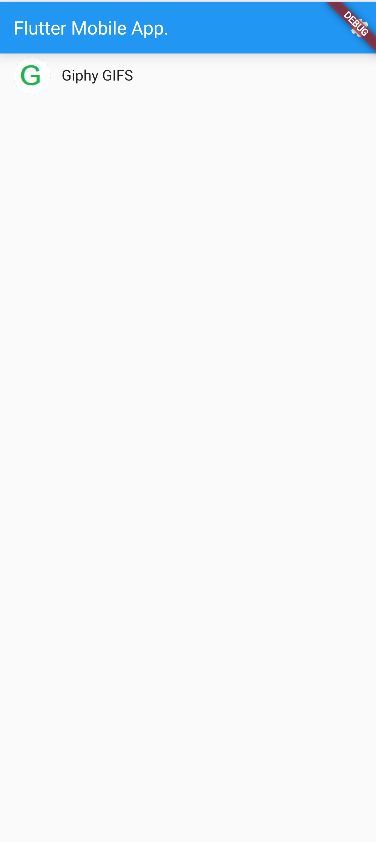
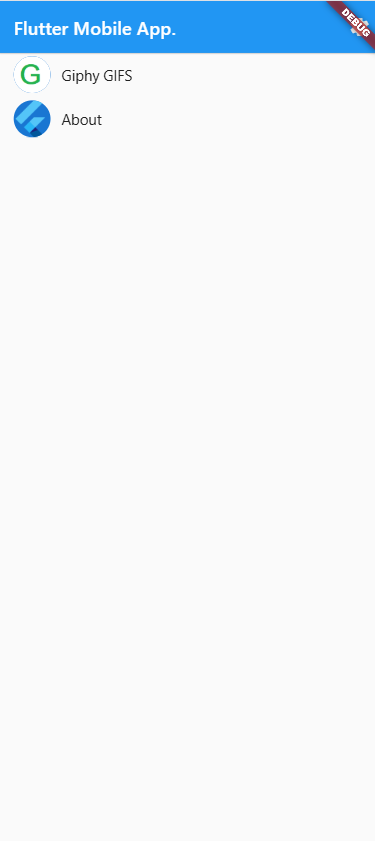
move classes to classes folder. add and display about page. Add simple text to about page. update readme picture.

Changed region(s): [[0.0293, 0.0, 0.4693, 0.1855], [0.88, 0.0, 1.0, 0.0618], [0.0293, 0.0, 0.0587, 0.0309]]

diff --git a/flutter_giphy/lib/src/giphy_feature/mobile_app_list_view.dart b/flutter_giphy/lib/src/giphy_feature/mobile_app_list_view.dart
@@ -1,19 +1,20 @@
 import 'package:flutter/material.dart';
 
 import '../settings/settings_view.dart';
-import 'giphy_item.dart';
-import 'giphy_item_details_view.dart';
+import '../classes/about_item.dart';
+import '../classes/generic_item.dart';
+import '../classes/giphy_item.dart';
 
 /// Displays a list of GiphyItems.
 class MobileAppListView extends StatelessWidget {
   const MobileAppListView({
     super.key,
-    this.items = const [GiphyItem(1)],
+    this.items = const [GiphyItem(1), AboutItem(2)],
   });
 
   static const routeName = '/';
 
-  final List<GiphyItem> items;
+  final List<GenericItem> items;
 
   @override
   Widget build(BuildContext context) {
@@ -47,19 +48,20 @@ class MobileAppListView extends StatelessWidget {
         itemCount: items.length,
         itemBuilder: (BuildContext context, int index) {
           return ListTile(
-              title: const Text('Giphy GIFS'),
-              leading: const CircleAvatar(
+              title: Text(items[index].theTitle),
+              leading: CircleAvatar(
                 // Display the Flutter Logo image asset.
-                foregroundImage: AssetImage('assets/images/gif.png'),
+                foregroundImage: AssetImage(items[index].imageLink),
               ),
               onTap: () {
                 // Navigate to the details page. If the user leaves and returns to
                 // the app after it has been killed while running in the
                 // background, the navigation stack is restored.
                 Navigator.restorablePushNamed(
-                  context,
-                  GiphyItemDetailsView.routeName,
-                );
+                    context,
+                    // GiphyItemView.routeName,
+                    // '/sample_item',
+                    items[index].routeName);
               });
         },
       ),

diff --git a/flutter_giphy/lib/src/giphy_feature/giphy_item_view.dart b/flutter_giphy/lib/src/giphy_feature/giphy_item_view.dart
@@ -2,22 +2,21 @@ import 'package:flutter/material.dart';
 import 'package:http/http.dart' as http;
 import '../../api_key.dart';
 import 'dart:convert';
-import 'gif_detail_view.dart';
 import '../classes/giphy.dart';
 import 'methods/giphy_search_row.dart';
 import 'methods/grid_view_to_display_GIFs.dart';
 
 /// Displays detailed information about a GiphyItem.
-class GiphyItemDetailsView extends StatefulWidget {
-  const GiphyItemDetailsView({super.key});
+class GiphyItemView extends StatefulWidget {
+  const GiphyItemView({super.key});
 
-  static const routeName = '/sample_item';
+  static const routeName = '/giphy_item';
 
   @override
-  State<GiphyItemDetailsView> createState() => _GiphyItemDetailsViewState();
+  State<GiphyItemView> createState() => _GiphyItemViewState();
 }
 
-class _GiphyItemDetailsViewState extends State<GiphyItemDetailsView> {
+class _GiphyItemViewState extends State<GiphyItemView> {
   final ScrollController _scrollController = ScrollController();
   final List<Data> _items = [];
   bool _isLoading = false;
@@ -26,7 +25,6 @@ class _GiphyItemDetailsViewState extends State<GiphyItemDetailsView> {
   int myOffSet = 0;
   String searchTerm = 'cat';
   final TextEditingController _searchController = TextEditingController();
-  // final _debouncer = Debouncer(milliseconds: 1500);
 
   @override
   void initState() {

diff --git a/flutter_giphy/lib/src/app.dart b/flutter_giphy/lib/src/app.dart
@@ -2,7 +2,8 @@ import 'package:flutter/material.dart';
 import 'package:flutter_gen/gen_l10n/app_localizations.dart';
 import 'package:flutter_localizations/flutter_localizations.dart';
 
-import 'giphy_feature/giphy_item_details_view.dart';
+import 'giphy_feature/about_page_view.dart';
+import 'giphy_feature/giphy_item_view.dart';
 import 'giphy_feature/mobile_app_list_view.dart';
 import 'settings/settings_controller.dart';
 import 'settings/settings_view.dart';
@@ -69,8 +70,10 @@ class MyApp extends StatelessWidget {
                 switch (routeSettings.name) {
                   case SettingsView.routeName:
                     return SettingsView(controller: settingsController);
-                  case GiphyItemDetailsView.routeName:
-                    return const GiphyItemDetailsView();
+                  case GiphyItemView.routeName:
+                    return const GiphyItemView();
+                  case AboutPageView.routeName:
+                    return const AboutPageView();
                   case MobileAppListView.routeName:
                   default:
                     return const MobileAppListView();

diff --git a/flutter_giphy/lib/src/giphy_feature/about_page_view.dart b/flutter_giphy/lib/src/giphy_feature/about_page_view.dart
@@ -1,0 +1,30 @@
+import 'package:flutter/material.dart';
+
+/// Displays detailed information about a GiphyItem.
+class AboutPageView extends StatefulWidget {
+  const AboutPageView({super.key});
+
+  static const routeName = '/about_item';
+
+  @override
+  State<AboutPageView> createState() => _AboutPageViewState();
+}
+
+class _AboutPageViewState extends State<AboutPageView> {
+  @override
+  Widget build(BuildContext context) {
+    return Scaffold(
+      appBar: AppBar(
+        title: const Text('About page'),
+      ),
+      body: Container(
+        margin: const EdgeInsets.all(16.0),
+        child: Column(
+          children: const [
+            Text('Hi this is a about page more info will follow')
+          ],
+        ),
+      ),
+    );
+  }
+}

diff --git a/flutter_giphy/test/widget_test.dart b/flutter_giphy/test/widget_test.dart
@@ -12,7 +12,7 @@ import 'dart:io';
 
 import 'package:flutter/material.dart';
 import 'package:flutter_giphy/src/giphy_feature/gif_detail_view.dart';
-import 'package:flutter_giphy/src/giphy_feature/giphy_item_details_view.dart';
+import 'package:flutter_giphy/src/giphy_feature/giphy_item_view.dart';
 import 'package:flutter_giphy/src/giphy_feature/mobile_app_list_view.dart';
 import 'package:flutter_test/flutter_test.dart';
 
@@ -36,7 +36,7 @@ void main() {
     testWidgets('Giphy App title is visible', (tester) async {
       await tester.pumpWidget(
         const MaterialApp(
-          home: GiphyItemDetailsView(),
+          home: GiphyItemView(),
         ),
       );
 

diff --git a/flutter_giphy/lib/src/classes/about_item.dart b/flutter_giphy/lib/src/classes/about_item.dart
@@ -1,0 +1,14 @@
+import 'package:flutter_giphy/src/classes/generic_item.dart';
+
+/// A placeholder class that represents an entity or model.
+class AboutItem extends GenericItem {
+  const AboutItem(this.id) : super(0);
+
+  final int id;
+  @override
+  final String routeName = '/about_item';
+  @override
+  final String theTitle = 'About';
+  @override
+  final String imageLink = 'assets/images/flutter_logo.png';
+}

diff --git a/flutter_giphy/lib/src/classes/giphy_item.dart b/flutter_giphy/lib/src/classes/giphy_item.dart
@@ -1,0 +1,14 @@
+import 'generic_item.dart';
+
+/// A placeholder class that represents an entity or model.
+class GiphyItem extends GenericItem {
+  const GiphyItem(this.id) : super(0);
+
+  final int id;
+  @override
+  final String routeName = '/giphy_item';
+  @override
+  final String theTitle = 'Giphy GIFS';
+  @override
+  final String imageLink = 'assets/images/gif.png';
+}

diff --git a/flutter_giphy/lib/src/classes/generic_item.dart b/flutter_giphy/lib/src/classes/generic_item.dart
@@ -1,0 +1,9 @@
+/// A placeholder class that represents an entity or model.
+abstract class GenericItem {
+  const GenericItem(this.id);
+
+  final int id;
+  final String routeName = '';
+  final String theTitle = '';
+  final String imageLink = '';
+}
